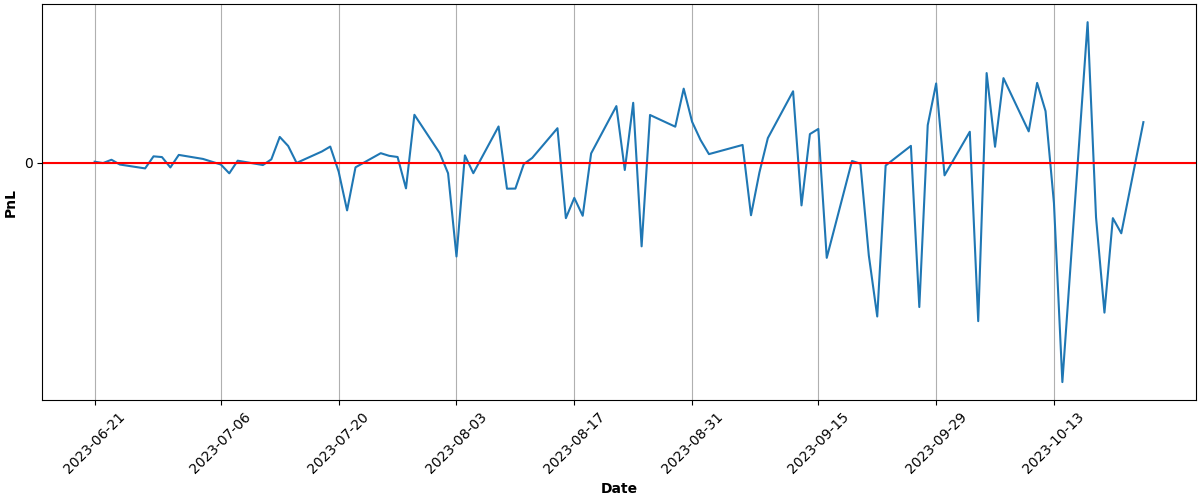
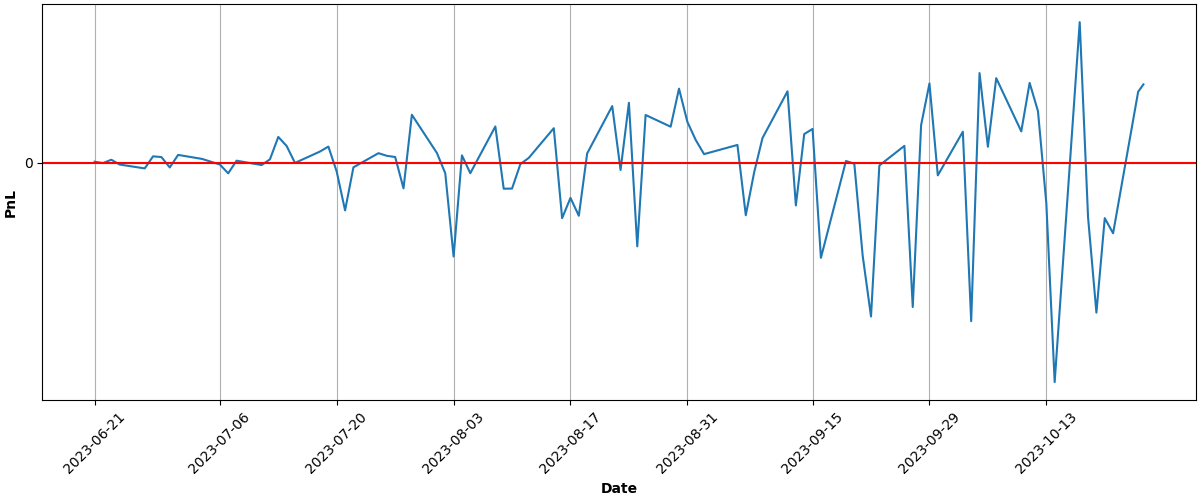
Automated Buy At Tue Oct 24 15:04:33 UTC 2023 Run ID 6628770216

diff --git a/README.md b/README.md
@@ -68,9 +68,9 @@ Results
 
 | Asset | Average Price | Current Price | ROI | 📈 |
 | --- | --- | --- | --- | --- |
-| FNGU | $174.246704994 | $147.82 | -15.17% | &#128308;&#128546; |
-| SVIX | $28.218672222 | $23.92 | -15.23% | &#128308;&#128546; |
-| **Total** |  |  | **-15.20%** | &#128308;&#128557; |
+| FNGU | $174.028182766 | $156.144 | -10.28% | &#128308;&#128546; |
+| SVIX | $28.130859459 | $24.97 | -11.24% | &#128308;&#128546; |
+| **Total** |  |  | **-10.79%** | &#128308;&#128557; |
 
 ### PnL over time (calculations may not be accurate):
 
@@ -81,6 +81,6 @@ Results
 ---
 
 
-Updated at 2023-10-23 15:05:07
+Updated at 2023-10-24 15:04:51
 
 
